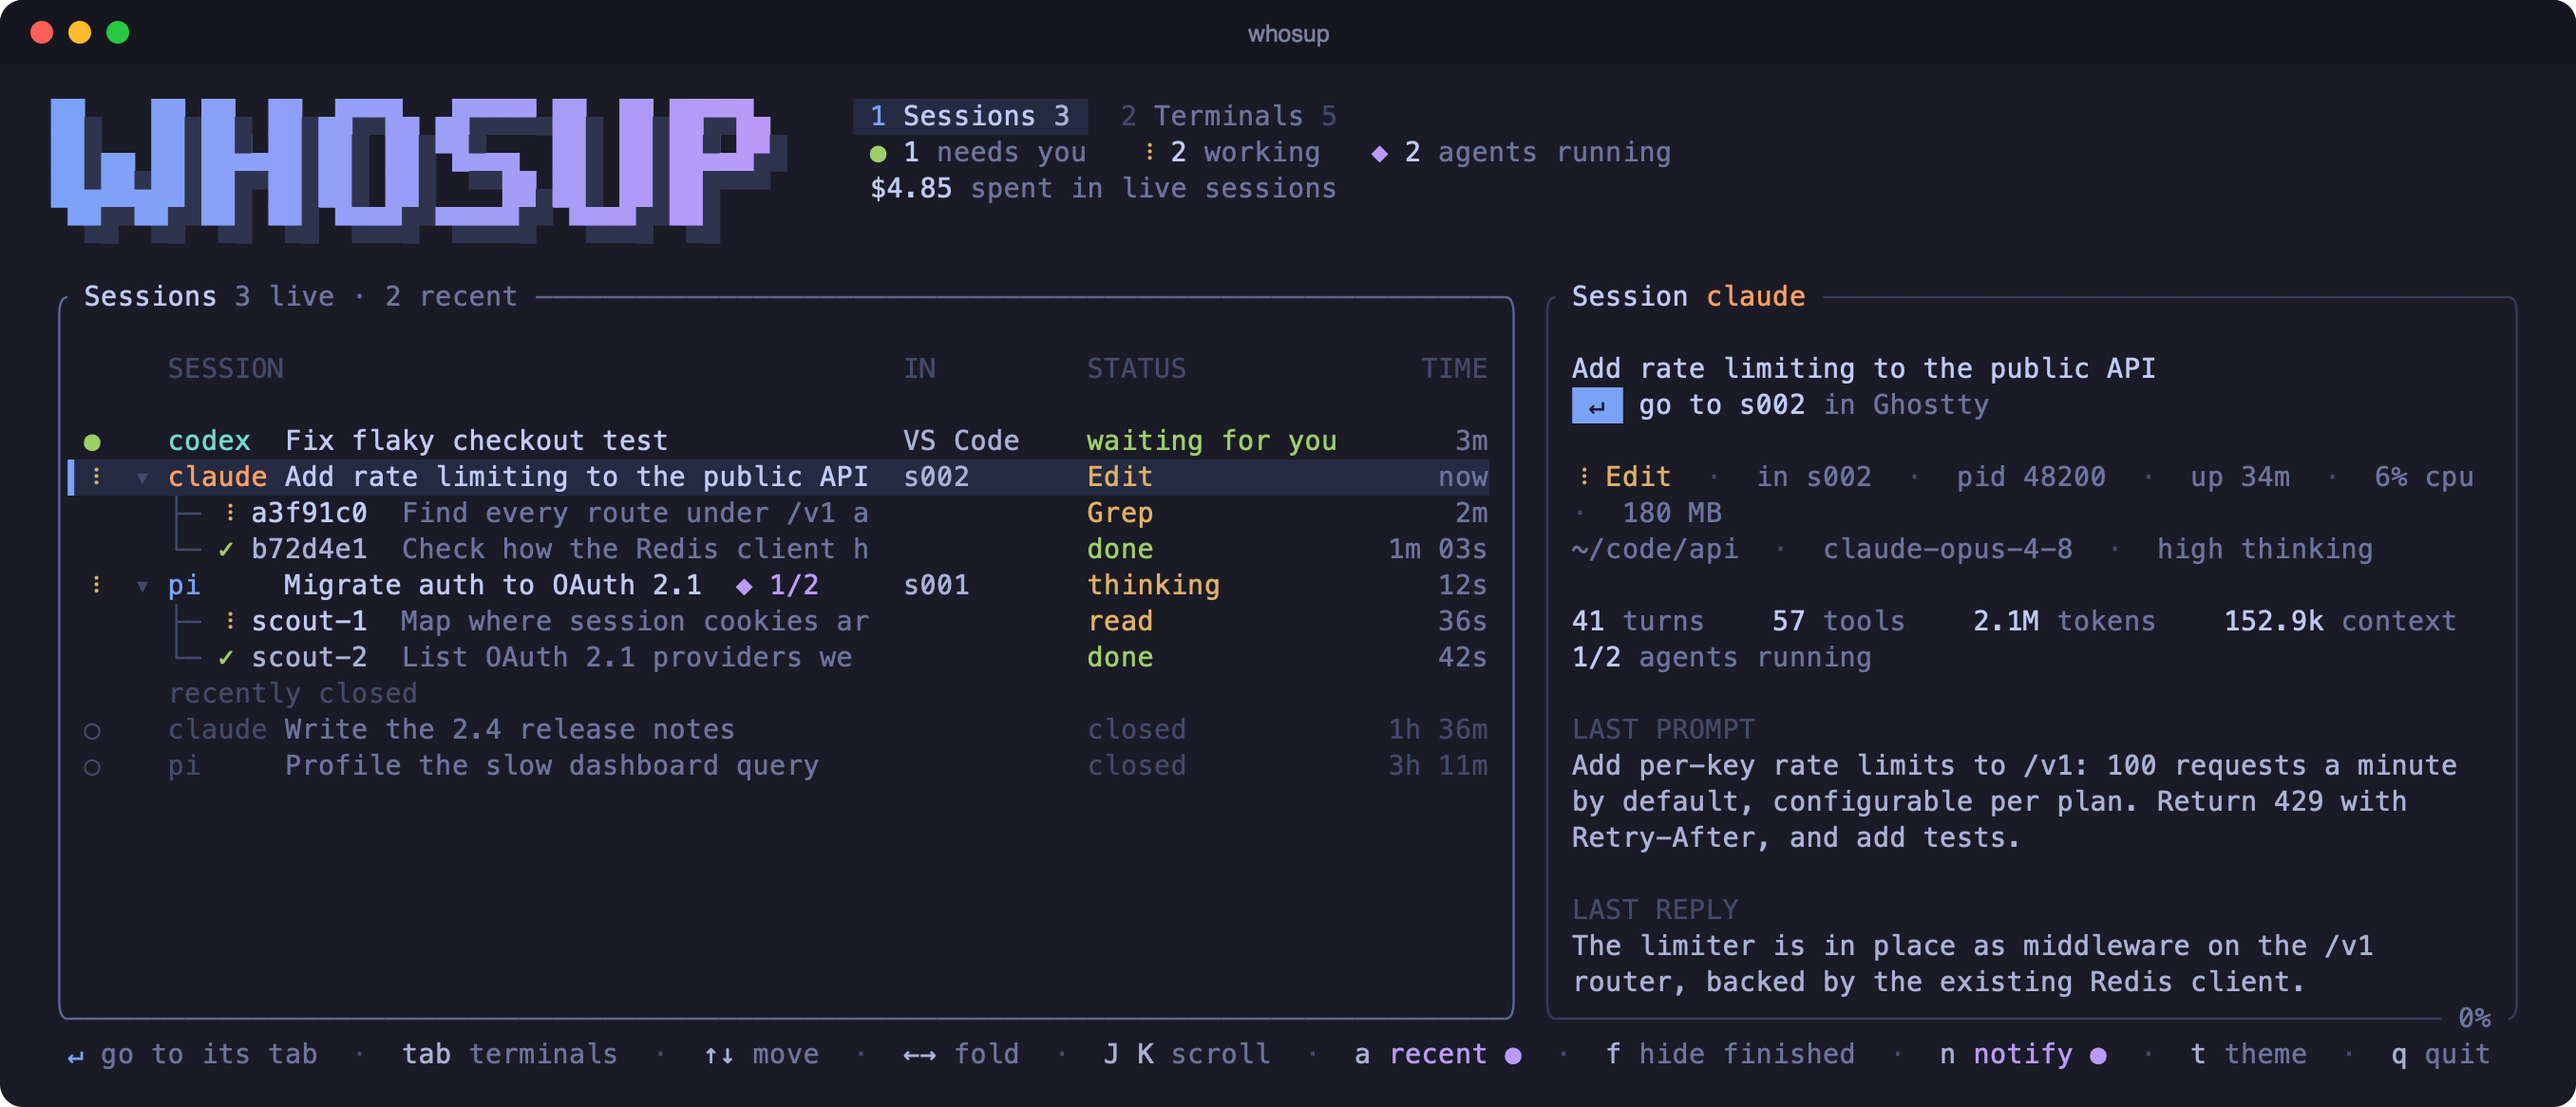
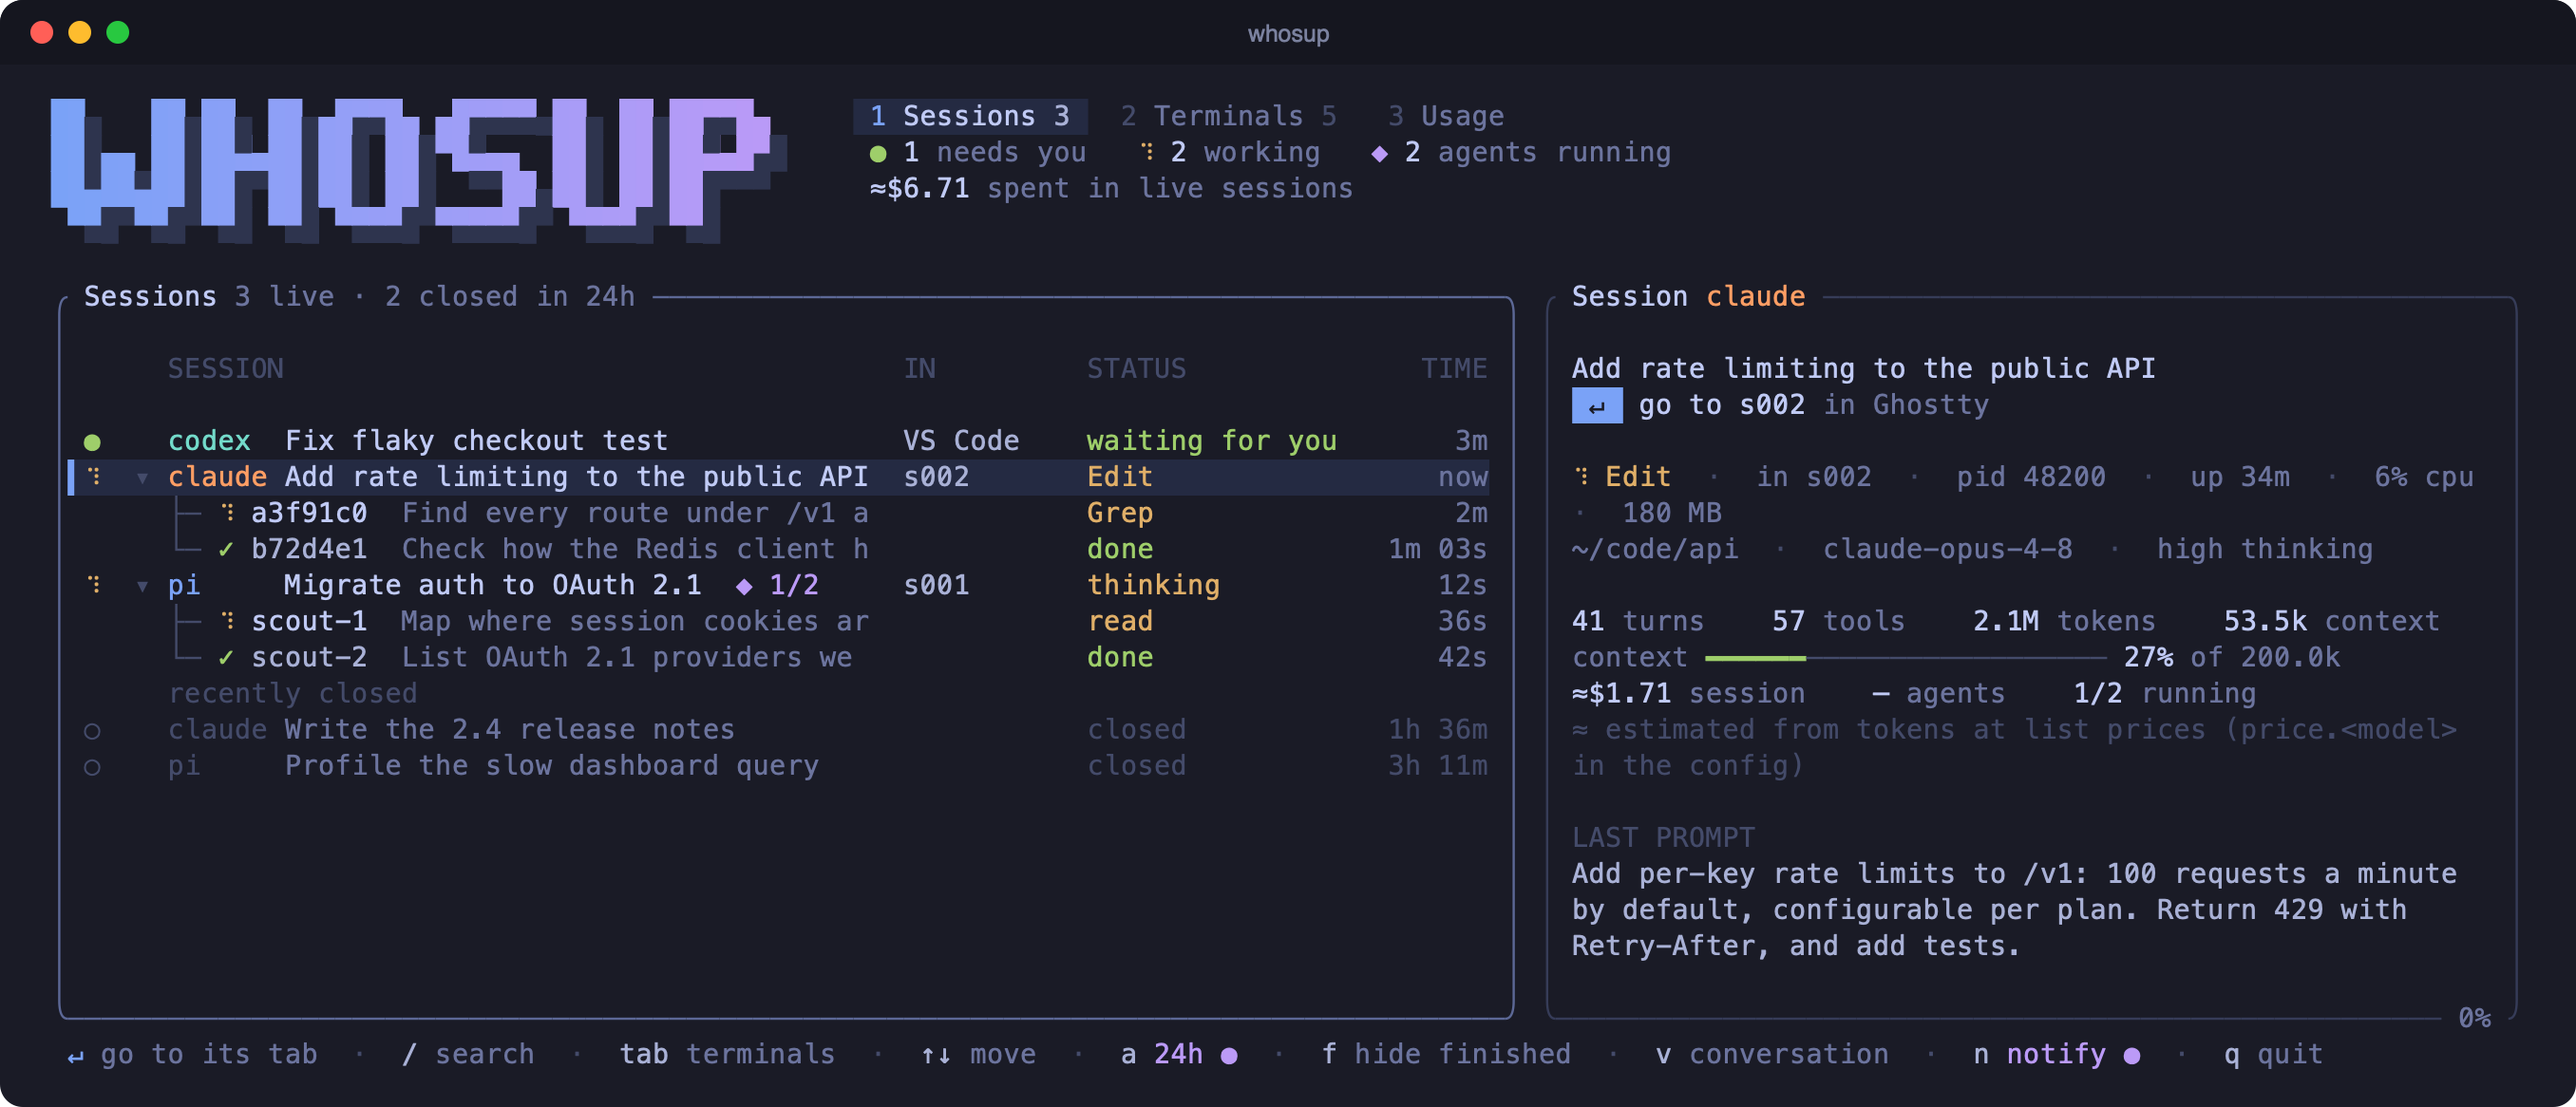
Refresh README screenshots; demo data with realistic tokens
Demo sessions get a token breakdown (so Claude/Codex show estimates) and
sensible context sizes; screenshots use a 24h window; the Usage tab shows no
count until it has added things up.

diff --git a/src/ui.rs b/src/ui.rs
@@ -469,7 +469,7 @@ fn header_parts(app: &App) -> HeaderParts {
             Span::styled(format!(" {label}"), Style::new().fg(p.muted)),
         ]
     };
-    let tab = |label: &str, n: usize, key: &str, active: bool| -> Vec<Span<'static>> {
+    let tab = |label: &str, n: Option<usize>, key: &str, active: bool| -> Vec<Span<'static>> {
         let (fg, bg) = if active { (p.fg, p.select) } else { (p.muted, p.base()) };
         vec![
             Span::styled(format!(" {key} "), Style::new().fg(if active { p.blue } else { p.faint }).bg(bg)),
@@ -477,14 +477,14 @@ fn header_parts(app: &App) -> HeaderParts {
                 label.to_string(),
                 Style::new().fg(fg).bg(bg).add_modifier(if active { Modifier::BOLD } else { Modifier::empty() }),
             ),
-            Span::styled(format!(" {n} "), Style::new().fg(if active { p.soft } else { p.faint }).bg(bg)),
+            Span::styled(n.map(|n| format!(" {n} ")).unwrap_or_else(|| " ".into()), Style::new().fg(if active { p.soft } else { p.faint }).bg(bg)),
         ]
     };
-    let mut tabs = tab("Sessions", live, "1", app.view == View::Sessions);
+    let mut tabs = tab("Sessions", Some(live), "1", app.view == View::Sessions);
     tabs.push(Span::raw(" "));
-    tabs.extend(tab("Terminals", terms.len(), "2", app.view == View::Terminals));
+    tabs.extend(tab("Terminals", Some(terms.len()), "2", app.view == View::Terminals));
     tabs.push(Span::raw(" "));
-    tabs.extend(tab("Usage", app.usage.as_ref().map(|u| u.sessions).unwrap_or(0), "3", app.view == View::Usage));
+    tabs.extend(tab("Usage", None, "3", app.view == View::Usage));
 
     let mut stats = Vec::new();
     let right: Vec<Span> = if app.view == View::Sessions {

diff --git a/src/demo.rs b/src/demo.rs
@@ -50,7 +50,11 @@ fn session(i: usize, d: S) -> Session {
         tool_calls: d.tools,
         cost: d.cost,
         tokens: d.tokens,
-        context_tokens: d.tokens / 14,
+        context_tokens: d.tokens / 40,
+        // a realistic breakdown, so Claude Code and Codex get cost estimates like real sessions
+        in_tokens: d.tokens / 50,
+        cache_read_tokens: d.tokens * 9 / 10,
+        out_tokens: d.tokens / 100,
         last_ts: Some(ago(d.last)),
         last_role: Some(d.state.0.into()),
         last_stop: d.state.1.map(Into::into),
@@ -60,6 +64,12 @@ fn session(i: usize, d: S) -> Session {
         last_text: Some(d.reply.into()),
         ..Transcript::default()
     };
+    let mut t = t;
+    crate::cost::fill(&mut t);
+    if t.daily.is_empty() {
+        let (c, k, e) = (t.cost, t.tokens, t.cost_estimated);
+        t.add_day(t.last_ts, c, k, e);
+    }
     let live = d.tty.is_some() || d.host.is_some();
     Session {
         shared_files: vec![],

diff --git a/src/main.rs b/src/main.rs
@@ -1529,7 +1529,7 @@ mod screenshots {
         unsafe { std::env::set_var("HOME", "/Users/you") };
         ui::set_light(light);
         let dir = PathBuf::from("/nonexistent");
-        let mut app = App::new_demo(Scanner::new(dir, 0));
+        let mut app = App::new_demo(Scanner::new(dir, 24 * 3_600_000));
         // creating the app applies the saved theme; the screenshot's theme wins
         app.settings.light = light;
         ui::set_light(light);
